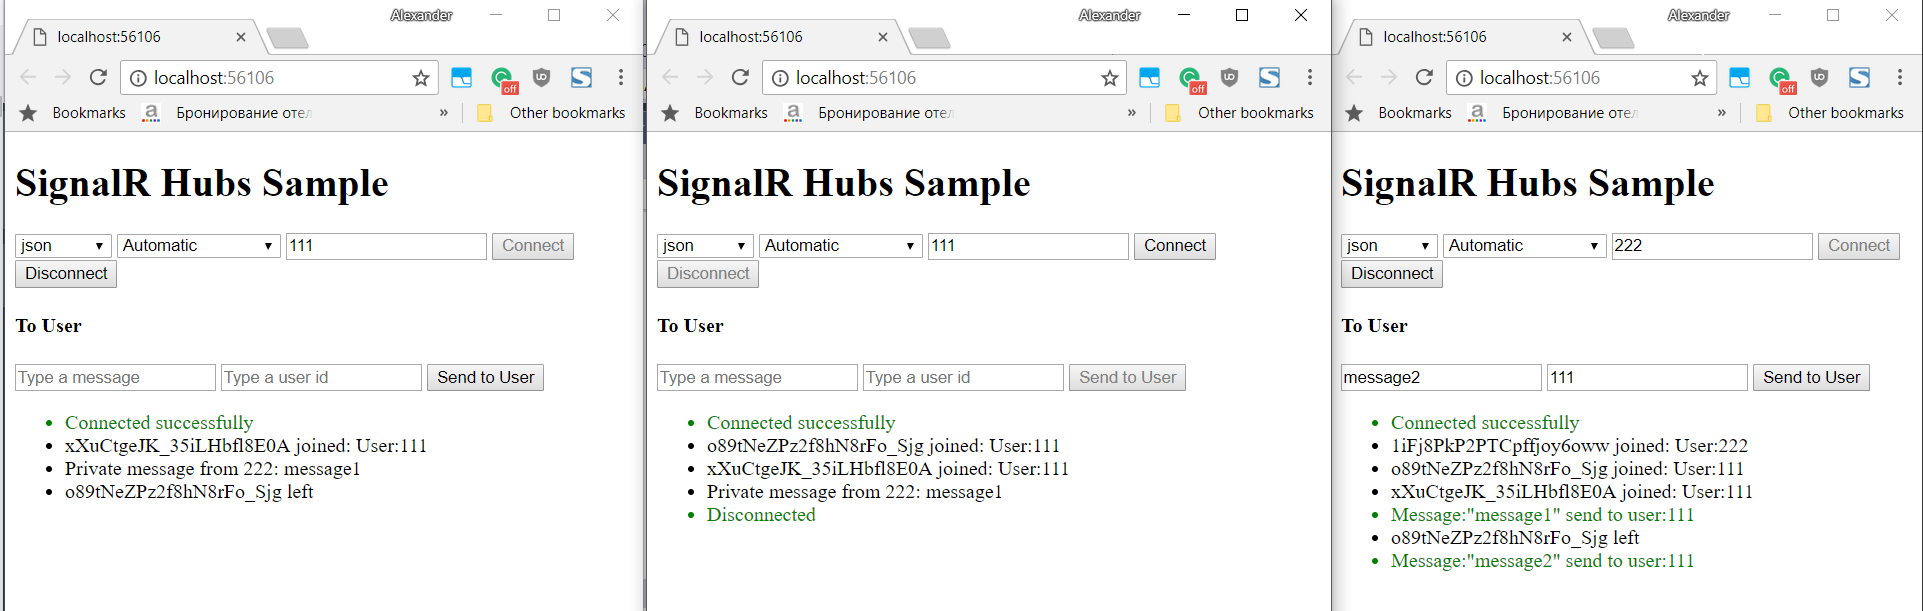
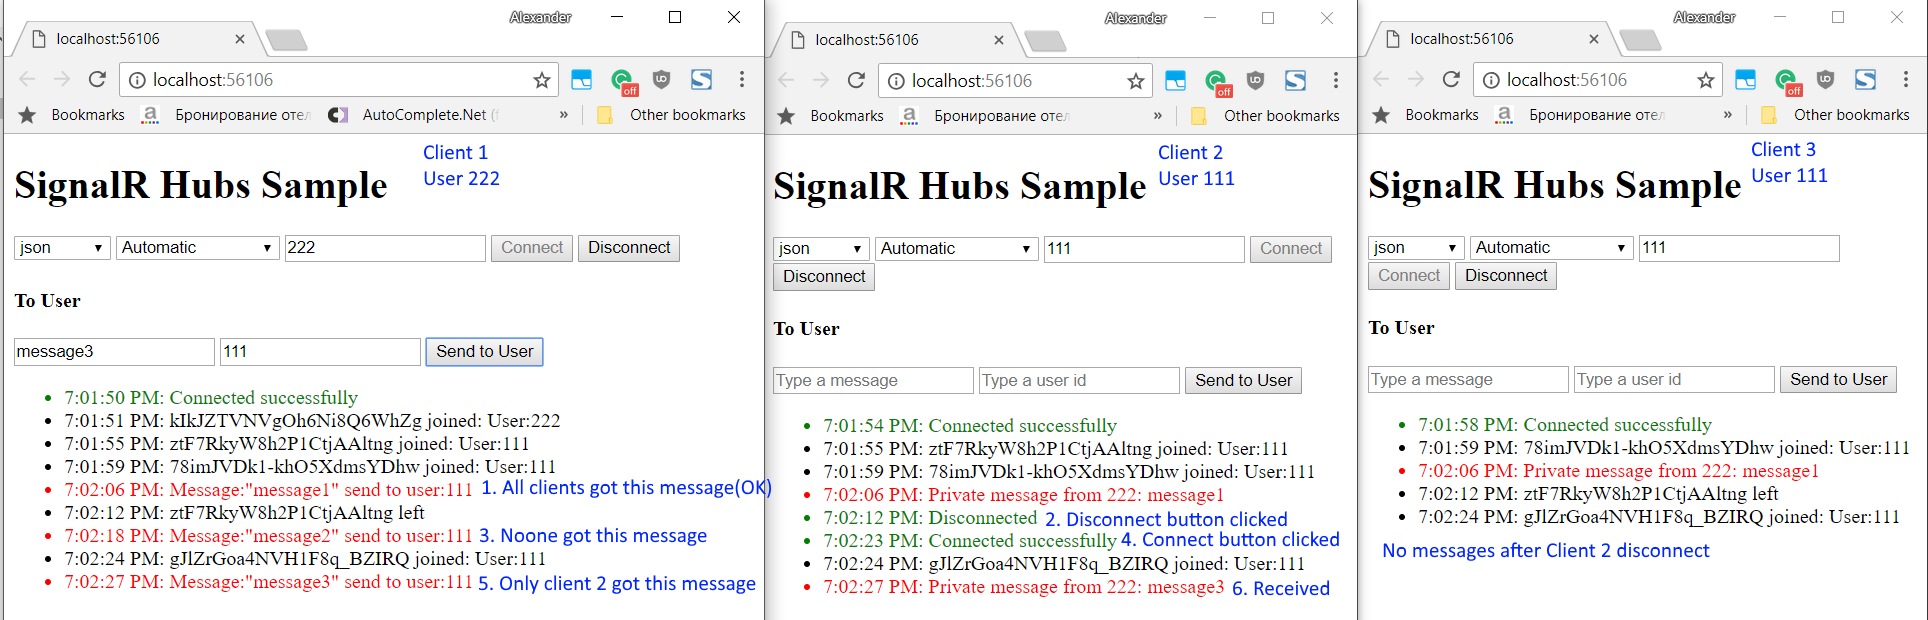
Improves description. Adds timestamps to logs

Changed region(s): [[0.0, 0.0, 0.9984, 1.0]]

diff --git a/SignalRSamples/wwwroot/index.html b/SignalRSamples/wwwroot/index.html
@@ -106,7 +106,7 @@
             .withHubProtocol(protocol)
             .build();
         connection.on('Send', function (msg) {
-            addLine('message-list', msg);
+            addLine('message-list', msg, msg.includes('message') ? 'red' : 'black');
         });
 
         connection.onclose(function (e) {
@@ -146,7 +146,7 @@
             return;
         }
         invoke(connection, 'SendToUser', id, data);
-        addLine('message-list', 'Message:"' + data + '" send to user:' + id, 'green');
+        addLine('message-list', 'Message:"' + data + '" send to user:' + id, 'red');
     });
 
 </script>

diff --git a/SignalRSamples/wwwroot/utils.js b/SignalRSamples/wwwroot/utils.js
@@ -22,7 +22,7 @@ function addLine(listId, line, color) {
     if (color) {
         child.style.color = color;
     }
-    child.innerText = line;
+    child.innerText = new Date().toLocaleTimeString() + ': ' + line;
     document.getElementById(listId).appendChild(child);
 }
 
